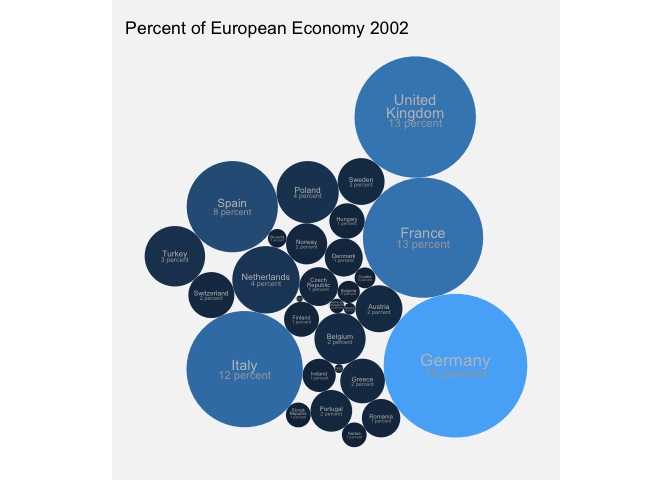
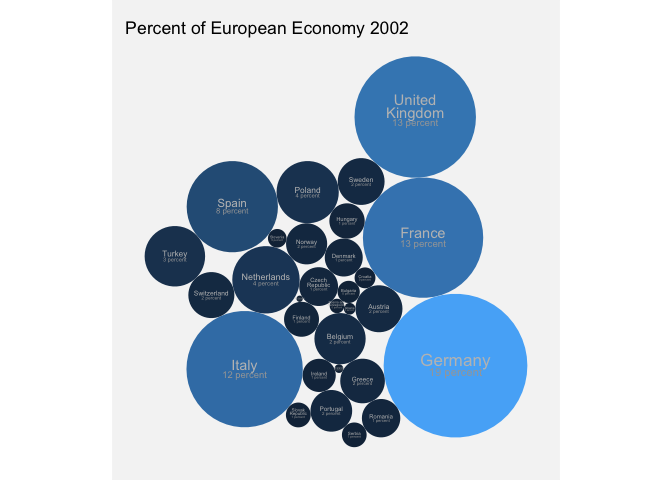
adding size to grouping aes

diff --git a/README.md b/README.md
@@ -1,33 +1,31 @@
 
-  - [ggcirclepack](#ggcirclepack)
-      - [Note to the reader](#note-to-the-reader)
-  - [status quo *without* {ggcirclepack}: precomputation required to
-    create two more data
-    frames](#status-quo-without-ggcirclepack-precomputation-required-to-create-two-more-data-frames)
-  - [Proposed UI](#proposed-ui)
-  - [Package functions](#package-functions)
-      - [geom\_circlepack\_text (center)](#geom_circlepack_text-center)
-          - [Step 1. compute panel](#step-1-compute-panel)
-          - [Step 1.1 test compute](#step-11-test-compute)
-          - [Step 2 and 3 ggproto and
-            geom](#step-2-and-3-ggproto-and-geom)
-          - [Step 4. test geom](#step-4-test-geom)
-      - [geom\_circlepack](#geom_circlepack)
-          - [Step 1. compute\_panel](#step-1-compute_panel)
-          - [Step 1.1. test compute](#step-11-test-compute-1)
-          - [Step 2 & 3 ggproto and geom](#step-2--3-ggproto-and-geom)
-          - [Step 4. test geom](#step-4-test-geom-1)
-  - [Package the functions](#package-the-functions)
-  - [Issues](#issues)
-      - [More computation under the hood for a count data
-        case.](#more-computation-under-the-hood-for-a-count-data-case)
+- [ggcirclepack](#ggcirclepack)
+  - [Note to the reader](#note-to-the-reader)
+- [status quo *without* {ggcirclepack}: precomputation required to
+  create two more data
+  frames](#status-quo-without-ggcirclepack-precomputation-required-to-create-two-more-data-frames)
+- [Proposed UI](#proposed-ui)
+- [Package functions](#package-functions)
+  - [geom_circlepack_text (center)](#geom_circlepack_text-center)
+    - [Step 1. compute panel](#step-1-compute-panel)
+    - [Step 1.1 test compute](#step-11-test-compute)
+    - [Step 2 and 3 ggproto and geom](#step-2-and-3-ggproto-and-geom)
+    - [Step 4. test geom](#step-4-test-geom)
+  - [geom_circlepack](#geom_circlepack)
+    - [Step 1. compute_panel](#step-1-compute_panel)
+    - [Step 1.1. test compute](#step-11-test-compute-1)
+    - [Step 2 & 3 ggproto and geom](#step-2--3-ggproto-and-geom)
+    - [Step 4. test geom](#step-4-test-geom-1)
+- [Package the functions](#package-the-functions)
+- [Issues](#issues)
+  - [More computation under the hood for a count data
+    case.](#more-computation-under-the-hood-for-a-count-data-case)
 
 <!-- README.md is generated from README.Rmd. Please edit that file -->
 
 # ggcirclepack
 
 <!-- badges: start -->
-
 <!-- badges: end -->
 
 circle pack is an experimental package that uses the {packcircles}
@@ -44,13 +42,12 @@ marked with emoji.
 Your help and feedback would be greatly appreciated on any of the
 questions…
 
-  - Are functions named intuitively? *‘According to IBM studies,
-    intuitive variable naming contributes more to code readability than
-    comments, or for that matter, any other factor’ McConnell, S. Code
-    complete*
-  - Do functions work as you expect?
-  - Is there rewriting that could make the code more concise?
-  - What tests should be performed?
+- Are functions named intuitively? *‘According to IBM studies, intuitive
+  variable naming contributes more to code readability than comments, or
+  for that matter, any other factor’ McConnell, S. Code complete*
+- Do functions work as you expect?
+- Is there rewriting that could make the code more concise?
+- What tests should be performed?
 
 # status quo *without* {ggcirclepack}: precomputation required to create two more data frames
 
@@ -118,7 +115,7 @@ filter(year == 2002) %>%
 
 # Package functions
 
-## geom\_circlepack\_text (center)
+## geom_circlepack_text (center)
 
 ### Step 1. compute panel
 
@@ -140,7 +137,8 @@ compute_panel_circlepack_center <- function(data, scales, fun = sum){
   data
   
   grp_cols <-  c("id", "fill", "alpha", 
-                 "colour", "group", "linewidth", "label",
+                 "colour", "group", "linewidth", 
+                 "label", "size",
                  "linetype", "render")
   
   # Thanks June! https://github.com/teunbrand/ggplot-extension-club/discussions/15
@@ -148,7 +146,7 @@ compute_panel_circlepack_center <- function(data, scales, fun = sum){
     group_by(group_by(pick(any_of(grp_cols)))) ->   
   data
   
-  if(is.null(data$area)){data$area <- 1}
+  if(is.null(data$area)){data <- mutate(data, area = 1)}
   if(is.null(data$wt)){data$wt <- 1}
   
   data %>% 
@@ -346,9 +344,9 @@ last_plot() +
 
 <img src="man/figures/README-unnamed-chunk-4-2.png" width="100%" />
 
-## geom\_circlepack
+## geom_circlepack
 
-### Step 1. compute\_panel
+### Step 1. compute_panel
 
 ``` r
 # Step 1
@@ -372,7 +370,7 @@ compute_panel_circlepack <- function(data, scales, npoints = 50, fun = sum){
   data
   
   grp_cols <-  c("id", "fill", "alpha", 
-                 "colour", "group", "linewidth", "label",
+                 "colour", "group", "linewidth", "label", "size",
                  "linetype", "render")
   
   # Thanks June! https://github.com/teunbrand/ggplot-extension-club/discussions/15
@@ -722,7 +720,9 @@ filter(year == 2002,
   ggnewscale::new_scale(new_aes = "size") + 
   geom_circlepack_text(vjust = 1.2, color = "grey65",
                        aes(label = paste(after_stat(percent),
-                                         "percent"))) +  
+                                         "percent"), 
+                           size = stage(after_stat = area,
+                                        after_scale = size*.85))) +
   scale_size(range = c(.5, 3.5)) + 
   ggstamp::theme_void_fill("whitesmoke") +
   theme(legend.position = "none") + 
@@ -738,6 +738,79 @@ filter(year == 2002,
 ```
 
 <img src="man/figures/README-unnamed-chunk-6-9.png" width="100%" />
+
+``` r
+  
+pride_index <- readr::read_csv('https://raw.githubusercontent.com/rfordatascience/tidytuesday/master/data/2024/2024-06-11/pride_index.csv')
+#> Rows: 238 Columns: 5
+#> ── Column specification ────────────────────────────────────────────────────────
+#> Delimiter: ","
+#> chr (3): campus_name, campus_location, community_type
+#> dbl (2): rating, students
+#> 
+#> ℹ Use `spec()` to retrieve the full column specification for this data.
+#> ℹ Specify the column types or set `show_col_types = FALSE` to quiet this message.
+```
+
+``` r
+
+comm_types <- c("large urban city",
+                "medium city",
+                "small city",
+                "small town",
+                "very small town",
+                "rural community")
+
+pride_it <- pride_index %>% 
+  # fix a typo
+  mutate(campus_location = str_replace(campus_location, "Swarrthmore", "Swarthmore")) %>% 
+  mutate(community_type = fct_relevel(community_type, comm_types)) %>% 
+  mutate(state = str_sub(campus_location, -2, -1)) %>% 
+  mutate(campus_name = str_replace(campus_name, "University", "U"))
+
+ggplot(pride_it) +
+  aes(id = campus_name) + 
+  aes(area = students) + 
+  aes(fill = rating == 5) +
+  geom_circlepack(linewidth = 0.2, color = "grey99") +
+  aes(label = str_wrap(after_stat(id), 10)) +
+  stat_circlepack_center(geom = GeomText, 
+                         lineheight = .8) +
+  scale_size(range = c(0,2)) +
+  aes(size = students*as.numeric(rating == 5)) + # freshly working
+  facet_wrap(facets = vars(community_type))
+#> Warning: Using `size` aesthetic for lines was deprecated in ggplot2 3.4.0.
+#> ℹ Please use `linewidth` instead.
+#> This warning is displayed once every 8 hours.
+#> Call `lifecycle::last_lifecycle_warnings()` to see where this warning was
+#> generated.
+#> Warning: Unknown or uninitialised column: `wt`.
+#> Warning: Unknown or uninitialised column: `within`.
+#> Warning: Unknown or uninitialised column: `wt`.
+#> Warning: Unknown or uninitialised column: `within`.
+#> Warning: Unknown or uninitialised column: `wt`.
+#> Warning: Unknown or uninitialised column: `within`.
+#> Warning: Unknown or uninitialised column: `wt`.
+#> Warning: Unknown or uninitialised column: `within`.
+#> Warning: Unknown or uninitialised column: `wt`.
+#> Warning: Unknown or uninitialised column: `within`.
+#> Warning: Unknown or uninitialised column: `wt`.
+#> Warning: Unknown or uninitialised column: `within`.
+#> Warning: Unknown or uninitialised column: `wt`.
+#> Warning: Unknown or uninitialised column: `within`.
+#> Warning: Unknown or uninitialised column: `wt`.
+#> Warning: Unknown or uninitialised column: `within`.
+#> Warning: Unknown or uninitialised column: `wt`.
+#> Warning: Unknown or uninitialised column: `within`.
+#> Warning: Unknown or uninitialised column: `wt`.
+#> Warning: Unknown or uninitialised column: `within`.
+#> Warning: Unknown or uninitialised column: `wt`.
+#> Warning: Unknown or uninitialised column: `within`.
+#> Warning: Unknown or uninitialised column: `wt`.
+#> Warning: Unknown or uninitialised column: `within`.
+```
+
+<img src="man/figures/README-unnamed-chunk-6-10.png" width="100%" />
 
 ``` r
 gapminder::gapminder %>%
